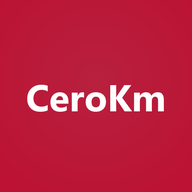
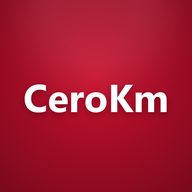
Icono CeroKm con degradado (version 10)

diff --git a/index.html b/index.html
@@ -4,9 +4,9 @@
 <meta charset="utf-8">
 <meta name="viewport" content="width=device-width, initial-scale=1, maximum-scale=1, viewport-fit=cover">
 <title>CeroKm</title>
-<link rel="apple-touch-icon" href="icono-180.png?v=5">
-<link rel="icon" type="image/png" href="favicon.png?v=5">
-<link rel="manifest" href="manifest.webmanifest?v=5">
+<link rel="apple-touch-icon" href="icono-180.png?v=6">
+<link rel="icon" type="image/png" href="favicon.png?v=6">
+<link rel="manifest" href="manifest.webmanifest?v=6">
 <meta name="apple-mobile-web-app-capable" content="yes">
 <meta name="mobile-web-app-capable" content="yes">
 <meta name="apple-mobile-web-app-title" content="CeroKm">
@@ -65,7 +65,7 @@
 <script>
 /* La pantalla de la app vive en Google (Apps Script) pero se muestra acá, sin el cartel de Google.
    Google queda solo como motor: cada pedido viaja con la clave secreta guardada en este aparato. */
-var WRAP_VER = '9';
+var WRAP_VER = '10';
 var API_ID = 'AKfycbwMccMP6rNIBN-iutoZVSfVqYasFBMve_L3eUG1JDRx5FhUtV1idSD72ImTmHms3ooa2w';
 var VIEJA = 'https://script.google.com/macros/s/AKfycbzn7PJlJKF0K5es5lEZd-x_ii8fZ2XYfdUVibRvcqHDJzjdB6Ra9vowjKOc5-fPcKxKGw/exec';
 var esPC = window.innerWidth >= 1000 && !/Android|iPhone|iPad/i.test(navigator.userAgent);
@@ -154,7 +154,7 @@ function puente() {
 
   // Ícono nuevo: el teléfono no deja cambiarlo desde la página, así que se explica cómo volver a agregarlo (una vez por aparato)
   (function () {
-    var ICONO = '5', NOMBRE = 'CeroKm', CODIGO = true;
+    var ICONO = '6', NOMBRE = 'CeroKm', CODIGO = true;
     function ls(k, v) { try { if (v === undefined) return localStorage.getItem(k); localStorage.setItem(k, v); } catch (e) { return null; } }
     var ua = navigator.userAgent, ios = /iPhone|iPad|iPod/i.test(ua) || (/Macintosh/.test(ua) && navigator.maxTouchPoints > 1), andr = /Android/i.test(ua);
     var inst = (window.matchMedia && matchMedia('(display-mode: standalone)').matches) || navigator.standalone === true;
@@ -214,8 +214,8 @@ function mostrar(html, cfg) {
   var h0 = 5381; for (var i = 0; i < html.length; i++) h0 = ((h0 << 5) + h0 + html.charCodeAt(i)) | 0;   // huella de esta versión (igual que huella() en puente)
   var ver = String(h0) + ':' + html.length;
   var extra = '<meta name="viewport" content="width=device-width, initial-scale=1, maximum-scale=1, viewport-fit=cover">' +
-    '<meta name="theme-color" content="#0e1014"><link rel="manifest" href="manifest.webmanifest?v=5">' +
-    '<link rel="apple-touch-icon" href="icono-180.png?v=5"><link rel="icon" type="image/png" href="favicon.png?v=5">' +
+    '<meta name="theme-color" content="#0e1014"><link rel="manifest" href="manifest.webmanifest?v=6">' +
+    '<link rel="apple-touch-icon" href="icono-180.png?v=6"><link rel="icon" type="image/png" href="favicon.png?v=6">' +
     '<title>CeroKm</title><script>window.__API=' + JSON.stringify(cfg) + ';window.__VER=' + JSON.stringify(ver) + ';window.__WRAP=' + JSON.stringify(WRAP_VER) + ';(' + puente.toString() + ')();<\/script>';
   html = html.replace(/<base[^>]*>/i, '').replace(/<head>/i, '<head>' + extra);
   document.open(); document.write(html); document.close();
@@ -227,7 +227,7 @@ function arrancar(cfg) {
   fetch('https://script.google.com/macros/s/' + cfg.u + '/exec', { method: 'POST', headers: { 'Content-Type': 'text/plain;charset=utf-8' },
         body: JSON.stringify({ fn: '_html', args: [] }) })
     .then(function (r) { return r.json(); })
-    .then(function (j) { if (!j.ok) throw new Error(j.e); guardar('appHtml', j.r); guardar('iconoVisto', '5'); mostrar(j.r, cfg); })
+    .then(function (j) { if (!j.ok) throw new Error(j.e); guardar('appHtml', j.r); guardar('iconoVisto', '6'); mostrar(j.r, cfg); })
     .catch(function () { formulario('No se pudo conectar. Revisá internet o el código.'); });
 }
 
